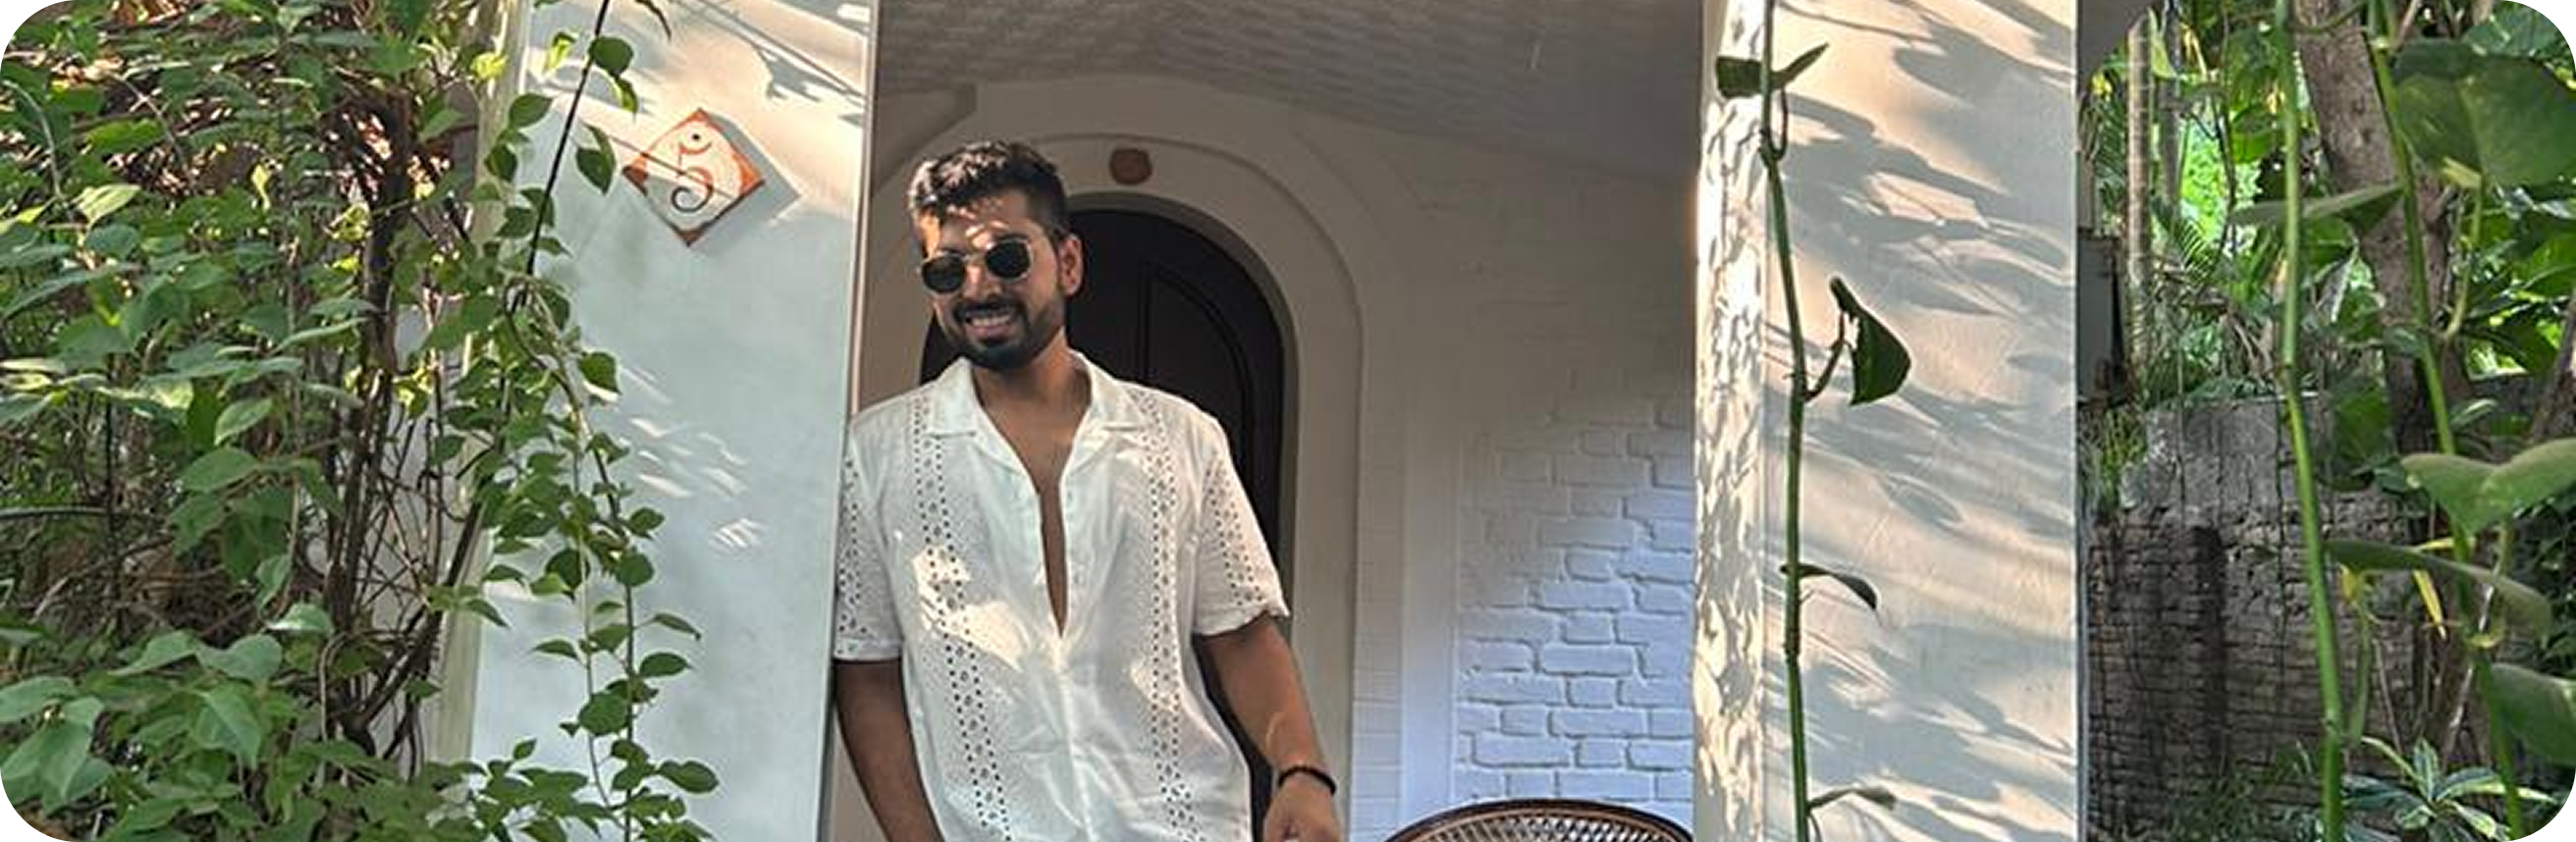
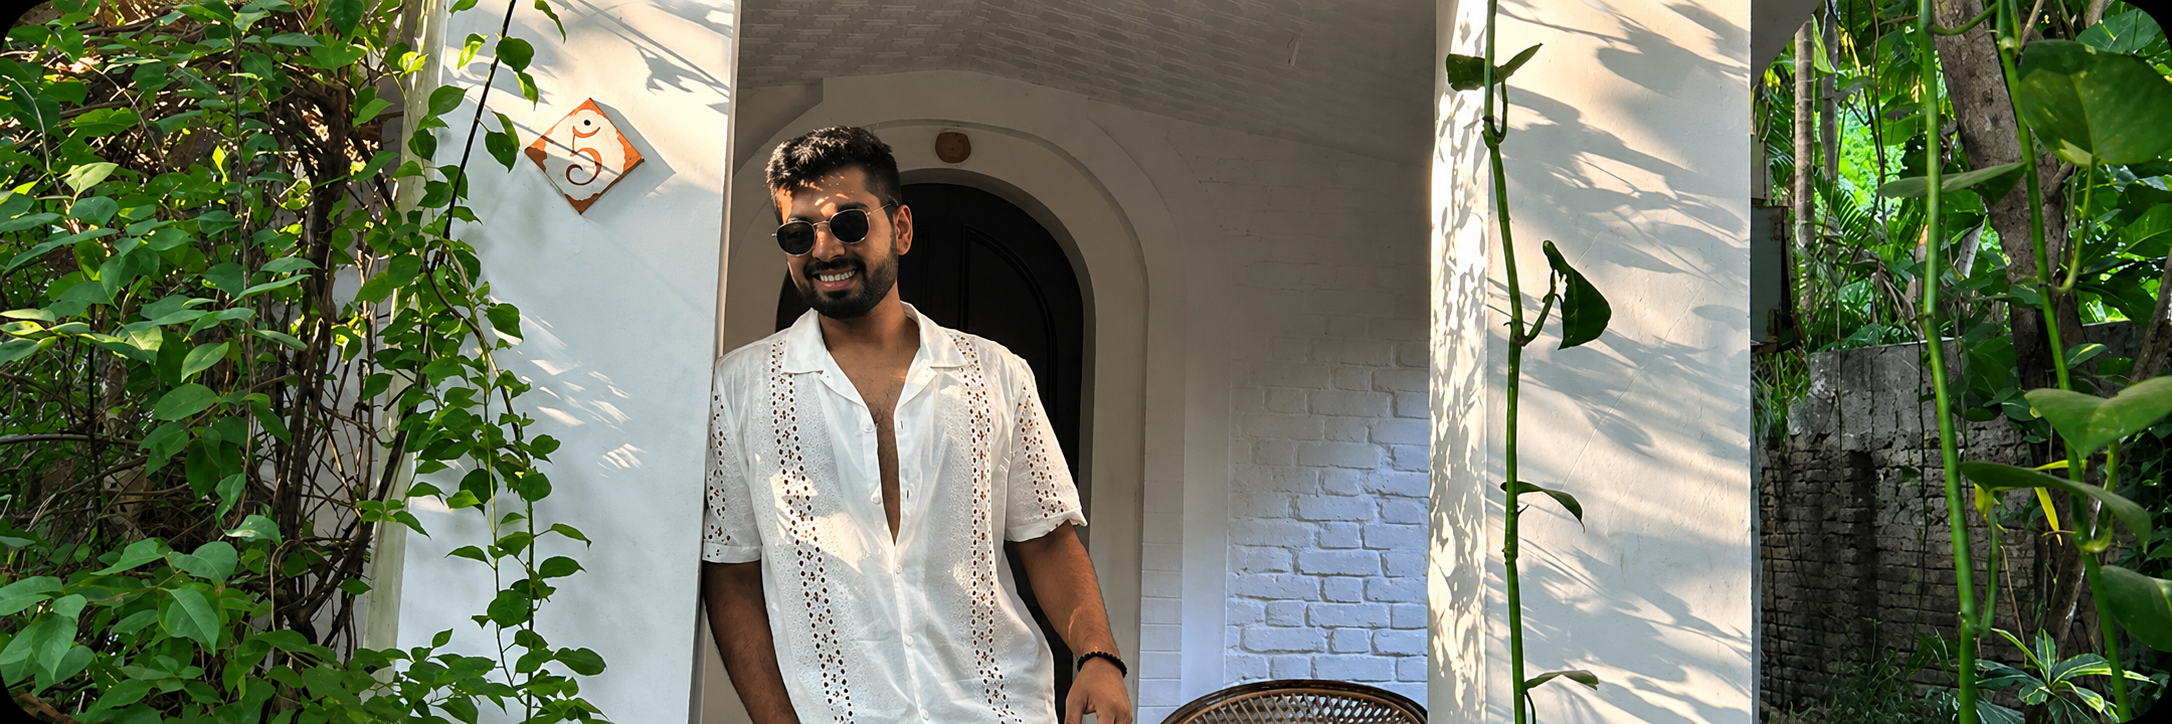
Update About hero + footer band images
- About hero: use the new /About-hero.png (same right-anchored composition, so
  the existing object-position crop still frames the subject).
- Footer band: replace Footer-band-image.png with the new shot (same path, so
  no code change needed).

diff --git a/app/about/AboutContent.tsx b/app/about/AboutContent.tsx
@@ -148,7 +148,7 @@ export default function AboutContent() {
       {/* ── Hero ──────────────────────────────────────────────────────────── */}
       <section className="about-hero">
         <Image
-          src="/about/hero.jpg"
+          src="/About-hero.png"
           alt="Dhairya Narang"
           fill
           priority